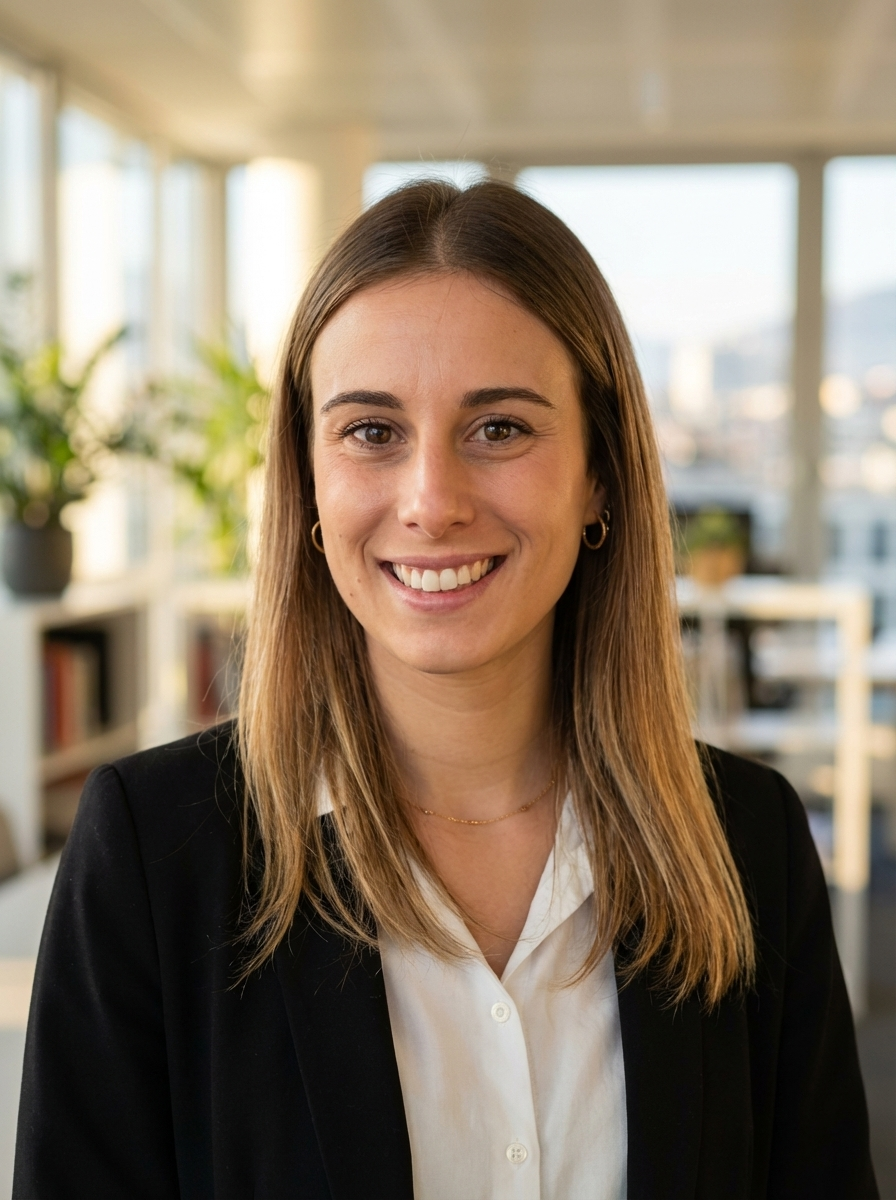
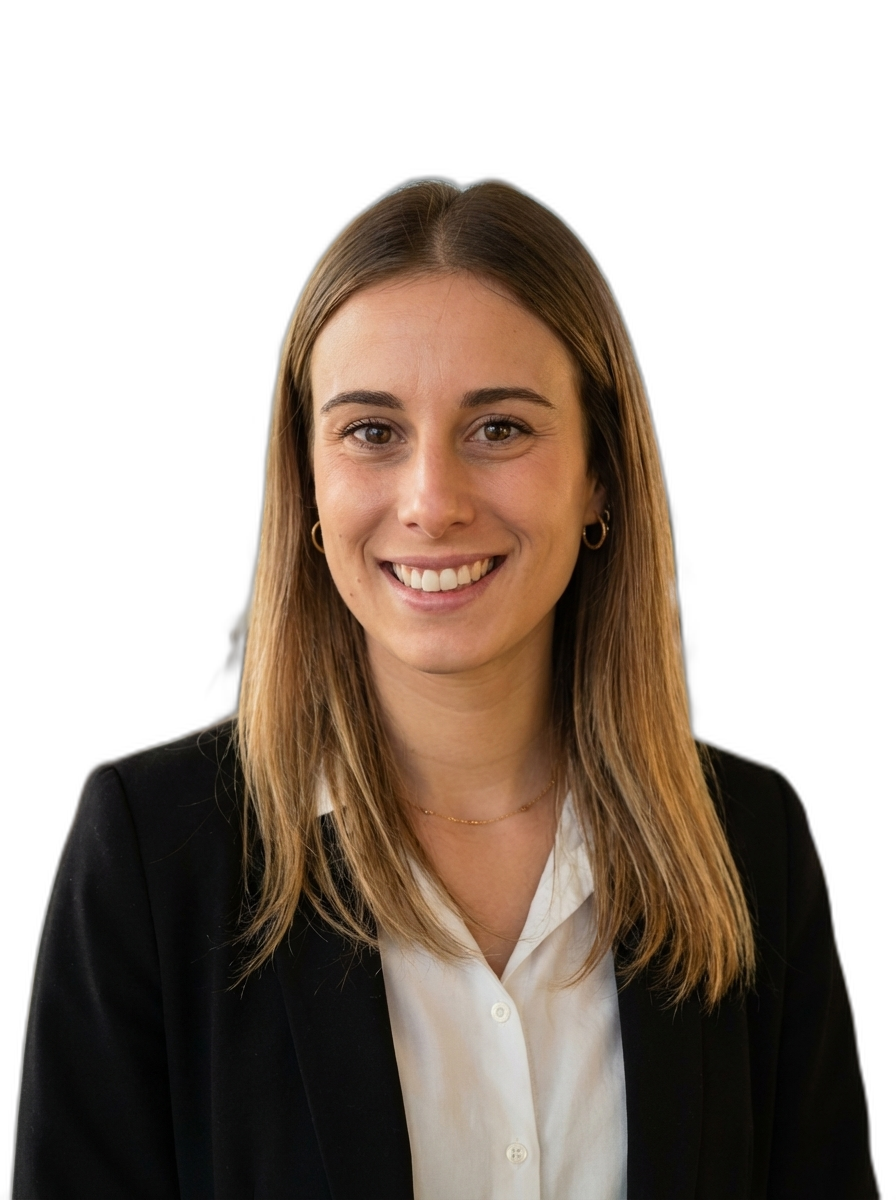
Detour David and Romane portraits, reset carousel overrides
- Background removed from both portraits (rembg, original photos preserved)
- Removed imageScale/imageOffsetX overrides for David and Romane in TeamSection

diff --git a/src/components/sections/TeamSection.tsx b/src/components/sections/TeamSection.tsx
@@ -11,7 +11,6 @@ const TEAM = [
     src: '/images/team/david-khazaei.png',
     cardBg: 'linear-gradient(160deg, rgba(124,58,237,0.22) 0%, rgba(124,58,237,0.06) 100%)',
     cardBorder: 'rgba(124,58,237,0.3)',
-    imageScale: 1,
   },
   {
     name: 'Romane',
@@ -21,8 +20,6 @@ const TEAM = [
     src: '/images/team/romane.png',
     cardBg: 'linear-gradient(160deg, rgba(255,107,0,0.20) 0%, rgba(255,107,0,0.05) 100%)',
     cardBorder: 'rgba(255,107,0,0.28)',
-    imageScale: 1.38,
-    imageOffsetX: 80,
     linkedin: 'https://www.linkedin.com/in/romane-degeorges/',
   },
   {
